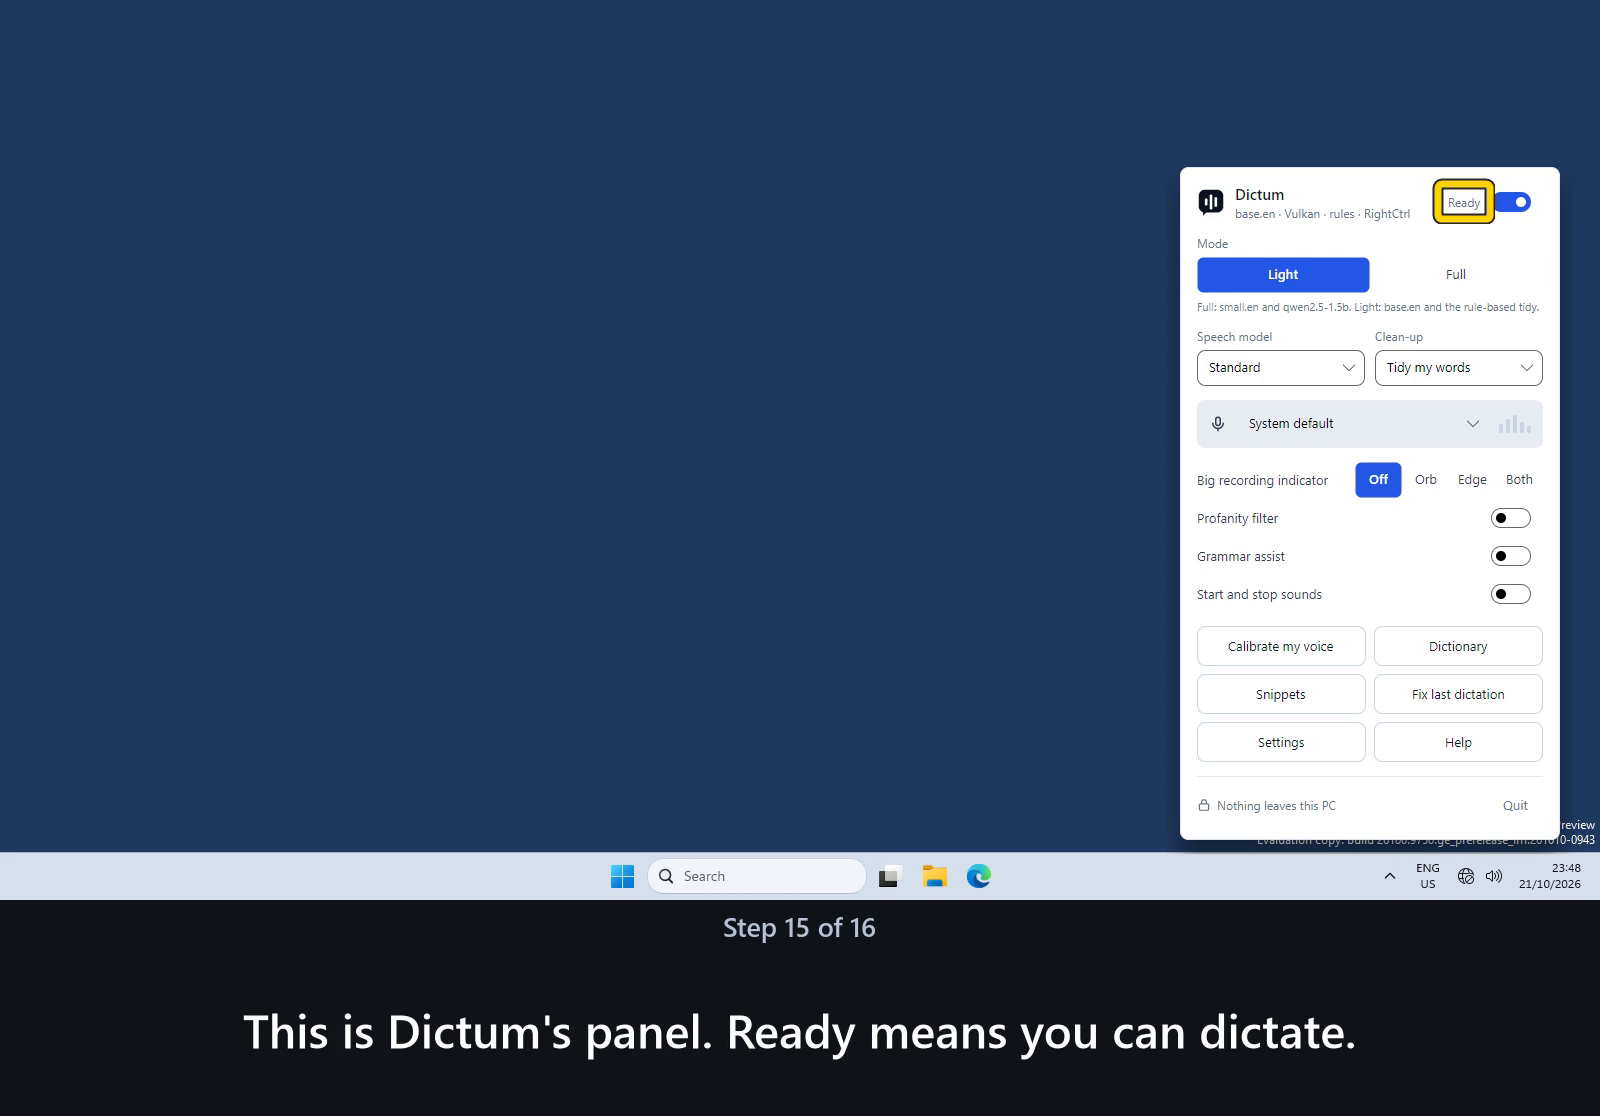
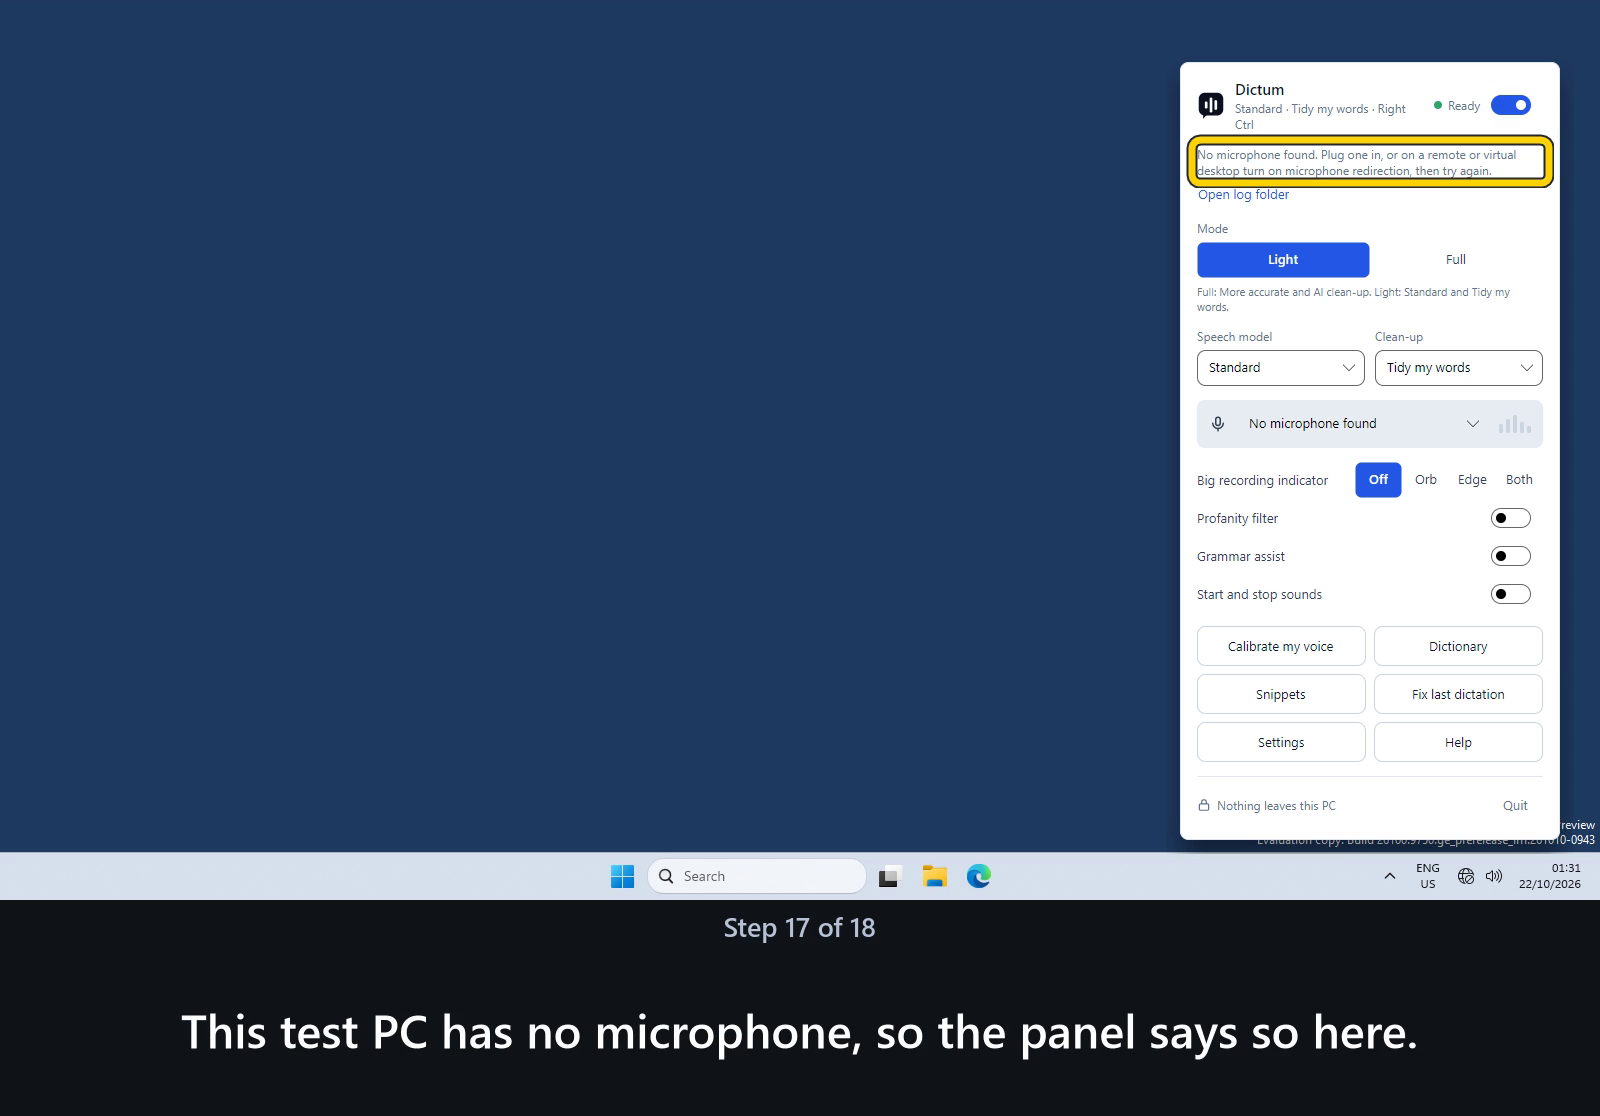
Demos: re-record on the 1.2 polish build (PR #38 at 4abba54)
Install, first-run, change-model, model-folder, test-setup and help were
recorded again in Windows Sandbox from a Setup built at 4abba54.
- first-run: anchors on "Right Ctrl"; a step waits while the speech
  model gets ready; the panel's no-microphone sentence is shown
- change-model: "In use" is now a tag (a text element), not a button
- model-folder: the folder is now a text element named by its path
- test-setup: the no-microphone sentence under Record
- help: opens two questions from the new "Questions on this page" list
dictation-stills unchanged: the pill code did not change. Captions PROPOSED.

diff --git a/docs/DEMOS.md b/docs/DEMOS.md
@@ -2,7 +2,7 @@
 
 Short captioned walkthrough videos of Dictum, recorded unattended on a clean Windows (Windows Sandbox) with no
 narration, for people who have never used it. Every caption names one thing to do. Pipeline written 21/10/2026 on
-main at 6dfede8; the demos were re-recorded on 21/10/2026 against the 1.2 build (PR #23 at 4b5ee4f), below.
+main at 6dfede8; the demos were re-recorded on 22/10/2026 against the 1.2 build with its polish (PR #38 at 4abba54), below.
 
 All caption copy below is **PROPOSED**, for the product owner to approve.
 
@@ -221,17 +221,20 @@ For 1.2, a new or renamed control needs only its data file changed: the scripts 
   that build's.
 - **Calibration keeps its name.** The 1.2 build still calls it "Calibrate my voice" (the tray panel, Settings > Models,
   the welcome's Try it step and Help all use that name), so the demo does too; its file stays `test-setup.json`. With
-  no microphone it shows "That did not work: No microphone found..." after Record.
+  no microphone it shows "No microphone found. Plug one in, ..." under Record (the same sentence as the welcome window
+  and the tray panel).
 - **The help demo does not press Send feedback**: it opens the user's own mail program, and the sandbox has none. The
   demo shows the button and says what it does.
-- **The Setup's version is 1.1.2.** The 1.2 build (PR #23 at 4b5ee4f) still carries version 1.1.2, so the Setup file,
+- **The Setup's version is 1.1.2.** The 1.2 build (PR #38 at 4abba54) still carries version 1.1.2, so the Setup file,
   the SmartScreen dialog and Setup's title say 1.1.2 in these recordings.
 
 ## What each demo shows (1.2 build, 21/10/2026)
 
-Recorded from PR #23's head 4b5ee4f (Simple/Advanced view, clean-up Off, the six-step welcome, Help). CI on a branch
+Recorded on 22/10/2026 from PR #38's head 4abba54 (the 1.2 build of PR #23 plus its polish: the welcome window at 720 x 500, key
+names such as "Right Ctrl", the no-microphone state, the Help index, "In use" as a tag). CI on a branch
 publishes only the zip (`.github/workflows/ci.yml` builds the Setup on tags), so the Setup exe was built locally from
-that commit with `scripts\build-installer.ps1` (Inno Setup 7.1.0). The web copies are in `site\img\demos\`:
+that commit with `scripts\build-installer.ps1` (Inno Setup 7.1.0): `Dictum-Setup-1.1.2.exe`, SHA-256
[1 lines of base64/hex data omitted]
 `<name>.gif` and `<name>-poster.png` are committed; `<name>.mp4` is not, because the private-material guard
 (`.githooks/private-guard.sh`, and `.gitignore`) refuses every `.mp4` in the repository, with no exception. Where the
 videos are hosted is the product owner's decision.
@@ -239,11 +242,11 @@ videos are hosted is the product owner's decision.
 | Demo | File | Shows |
 |---|---|---|
 | 1. Install | `install.json` | Downloads folder, double-click Setup, SmartScreen (offline variant), Next, Install, Launch Dictum ticked, Finish, the "Welcome to Dictum" window |
-| 2. First run | `first-run.json` | Start, type Dictum, Enter, the six-step welcome (Welcome, Model files, Speech model, Your hotkey, Microphone with the no-microphone message, Try it), Finish, the tray icon, the panel showing Ready |
+| 2. First run | `first-run.json` | Start, type Dictum, Enter, the six-step welcome (Welcome, Model files, Speech model, Your hotkey, Microphone with the no-microphone message, Try it while the model gets ready), Finish, the tray icon, the panel showing Ready and the no-microphone sentence |
 | 3. Change the speech model | `change-model.json` | Settings > Models in the Simple view: Standard in use, Use next to More accurate (small.en, copied in from the host's model folder, read-only), In use, then Advanced showing every model by name |
-| 4. Calibrate my voice | `test-setup.json` | Tray icon, Calibrate my voice, the first sentence, Record, and the no-microphone message |
-| 5. Models on another drive | `model-folder.json` | Settings, Models, scroll to Model folder, Browse, type D:\Dictum models, Select Folder, the new folder shown |
-| 6. Find help | `help.json` | Settings > Help: Send feedback (shown, not pressed), How Dictum works, two of the questions and answers |
+| 4. Calibrate my voice | `test-setup.json` | Tray icon, Calibrate my voice, the first sentence, Record, and the no-microphone message under Record |
+| 5. Models on another drive | `model-folder.json` | Settings, Models, Browse, type D:\Dictum models, Select Folder, the new folder shown |
+| 6. Find help | `help.json` | Settings > Help: the "Questions on this page" list, two questions opened from it and their answers, Send feedback (shown, not pressed) |
 | Dictation (stills) | `dictation-stills.json` | The pill: Recording, Transcribing, Pasted 12 words |
 
 change-model, test-setup, model-folder and help go through the welcome window with its defaults (Next, Next, Next,
@@ -273,12 +276,14 @@ window, and first-run records it.
    8. Click Use this hotkey.
    9. Dictum tests your microphone. This test PC has none, so it says so.
    10. Click Next. With a microphone, you would say a few words first.
-   11. Last, try it: click in the box, hold Right Ctrl, say a sentence, let go.
-   12. Click Finish.
-   13. Dictum now waits by the clock. Click the little up-arrow there. *(skipped when the icon is already on the taskbar)*
-   14. Click the Dictum icon.
-   15. This is Dictum's panel. Ready means you can dictate.
-   16. Press Esc to close the panel.
+   11. Dictum gets the speech model ready. This takes a moment.
+   12. Last, try it: click in the box, hold Right Ctrl, say a sentence, let go.
+   13. Click Finish.
+   14. Dictum now waits by the clock. Click the little up-arrow there. *(skipped when the icon is already on the taskbar)*
+   15. Click the Dictum icon.
+   16. This is Dictum's panel. Ready means it is waiting for you.
+   17. This test PC has no microphone, so the panel says so here.
+   18. Press Esc to close the panel.
 3. **Change the speech model** (`change-model.json`)
    1. Click the little up-arrow near the clock, at the bottom right of the screen. *(skipped when the icon is already on the taskbar)*
    2. Click the Dictum icon.
@@ -295,7 +300,7 @@ window, and first-run records it.
    3. Click Calibrate my voice.
    4. Dictum shows a sentence to read aloud.
    5. Click Record and read the sentence aloud.
-   6. This test PC has no microphone, so Dictum says so here.
+   6. This test PC has no microphone, so Dictum says so under Record.
 5. **Keep the models on another drive** (`model-folder.json`)
    1. Click the little up-arrow near the clock, at the bottom right of the screen. *(skipped when the icon is already on the taskbar)*
    2. Click the Dictum icon.
@@ -310,10 +315,12 @@ window, and first-run records it.
    2. Click the Dictum icon.
    3. Click Settings.
    4. Click Help, at the bottom of the list on the left.
-   5. To tell us something, use Send feedback. It opens an email you can check, then send.
-   6. Below, Help explains how Dictum works, in plain words.
-   7. It answers common questions, such as: where does my voice go?
-   8. Why did it type the wrong words? Help lists what to try.
+   5. Help starts with a list of the questions it answers.
+   6. Click a question, for example Where does my voice go?
+   7. Help moves down to its answer.
+   8. Click another question: Why did it type the wrong words?
+   9. Its answer lists what to try.
+   10. To tell us something, use Send feedback. It opens an email you can check, then send.
 - **Dictate: hold, speak, let go** (stills, `dictation-stills.json`)
   1. Hold Right Ctrl and speak. The bar at the bottom of the screen says Recording.
   2. Let go of the key when you have finished. Dictum turns your words into text.
